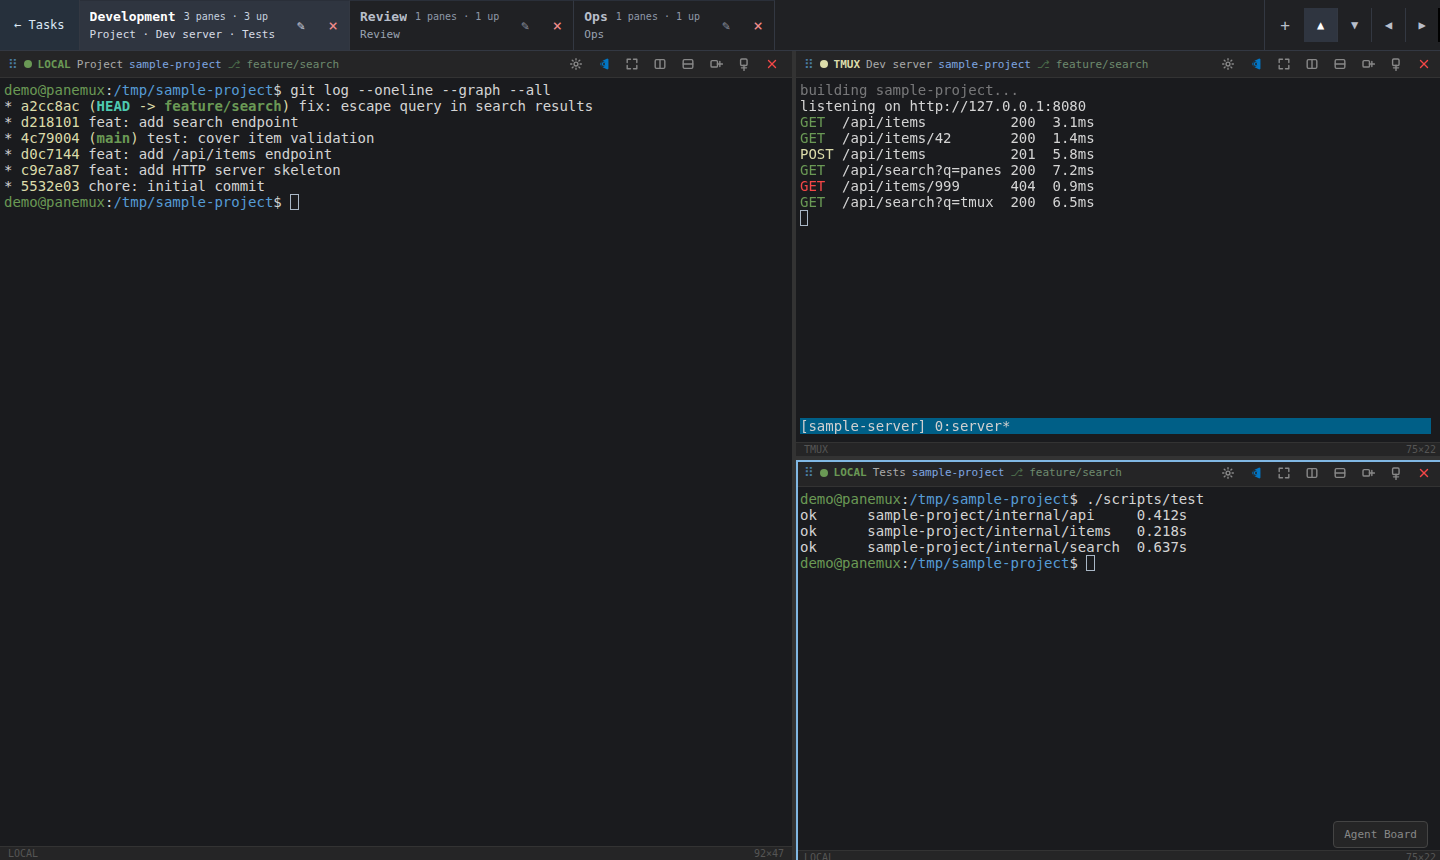
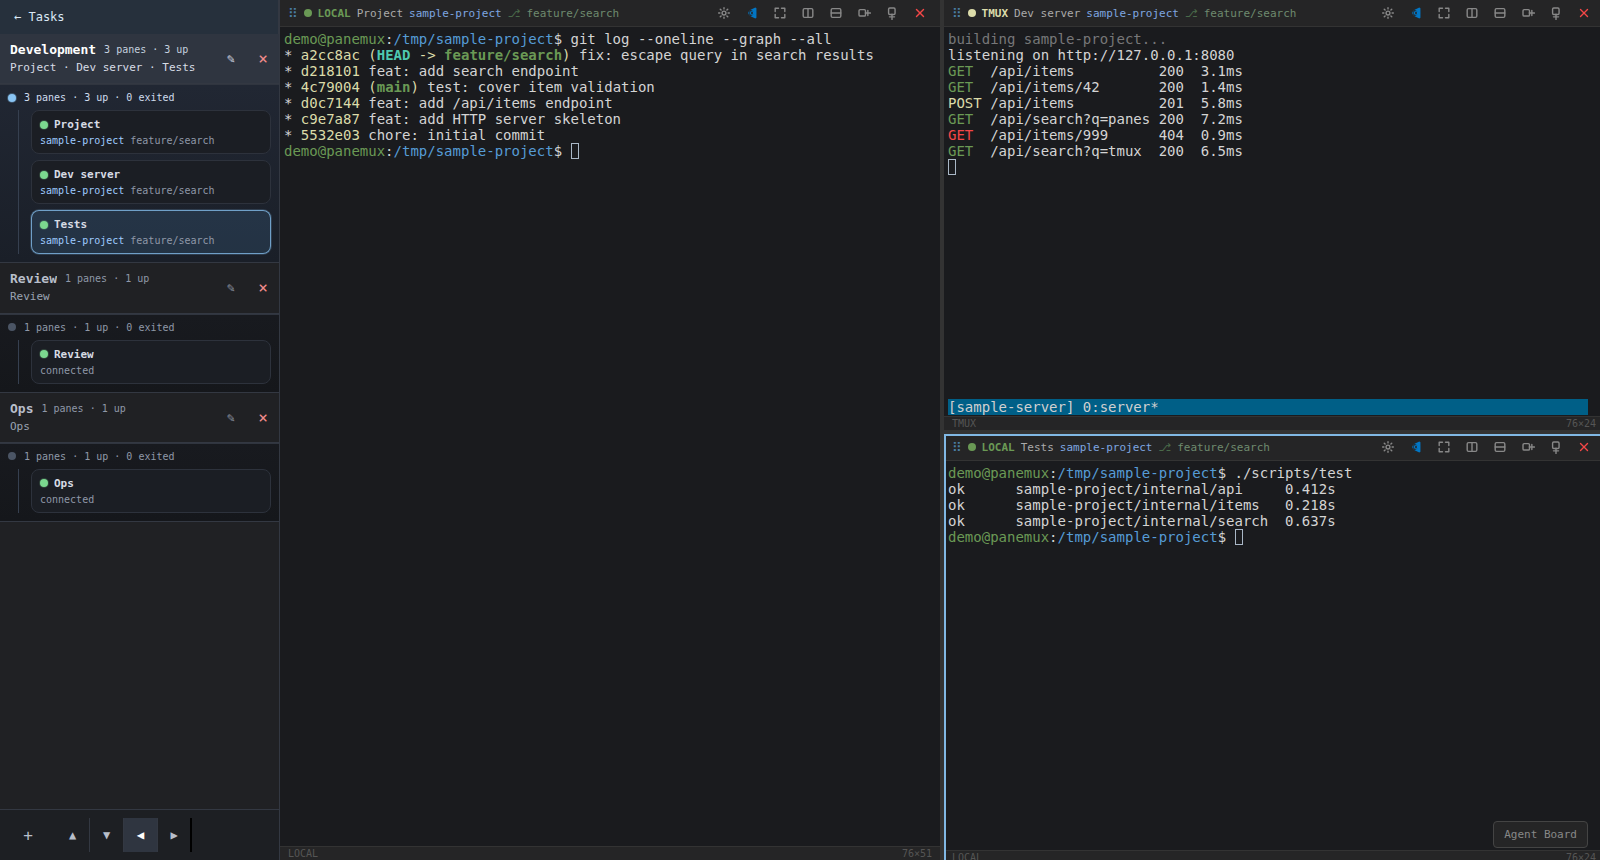
docs: show the workspace bar on the left in the screenshots
The left bar lists each workspace's panes inline, which the hero image
should show. The viewport is widened to 1600px and the split made 50/50
so the right-hand pane headers still fit on one line.

Claude-Session: https://claude.ai/code/session_01S4AYsjkCZQWXzTaGG3puZA

diff --git a/frontend/screenshots/playwright.config.ts b/frontend/screenshots/playwright.config.ts
@@ -20,7 +20,7 @@ export default defineConfig({
     ...devices['Desktop Chrome'],
     ...(chromiumExecutablePath ? { launchOptions: { executablePath: chromiumExecutablePath } } : {}),
     baseURL: BASE_URL,
-    viewport: { width: 1440, height: 860 },
+    viewport: { width: 1600, height: 860 },
     deviceScaleFactor: 1,
     colorScheme: 'dark',
   },

diff --git a/README.md b/README.md
@@ -7,7 +7,7 @@
 [![Go 1.24](https://img.shields.io/badge/Go-1.24-00ADD8?logo=go)](https://golang.org)
 [![Releases](https://img.shields.io/github/v/release/tomo-chan/panemux)](https://github.com/tomo-chan/panemux/releases)
 
-![panemux in the browser: a "Development" workspace tab split into a local shell showing git log on the left, and on the right a tmux pane running a dev server above a local shell that ran the tests. Each pane header shows its type, title, repository and branch. "Review" and "Ops" workspace tabs sit beside it.](docs/images/workspace.png)
+![panemux in the browser: on the left, the workspace bar lists the "Development", "Review" and "Ops" workspaces with a card per pane showing its repository and branch. The "Development" workspace is split into a local shell showing git log, and on the right a tmux pane running a dev server above a local shell that ran the tests. Each pane header shows its type, title, repository and branch.](docs/images/workspace.png)
 
 ---
 
@@ -168,7 +168,7 @@ message them. Two independent pieces, either of which can be used without the ot
 
 Full design lives in [docs/agent-board.md](docs/agent-board.md).
 
-![The Agent Board dashboard open on the right of a workspace: under Panes, a working "editor" pane and a waiting "tests" pane each report a summary of what they are doing and their last tool; under Messages, the two panes' latest messages to each other.](docs/images/agent-board.png)
+![The Agent Board dashboard open on the right of the workspace: under Panes, a working "editor" pane and a waiting "tests" pane each report a summary of what they are doing and their last tool; under Messages, the two panes' latest messages to each other.](docs/images/agent-board.png)
 
 ### Prerequisites
 
